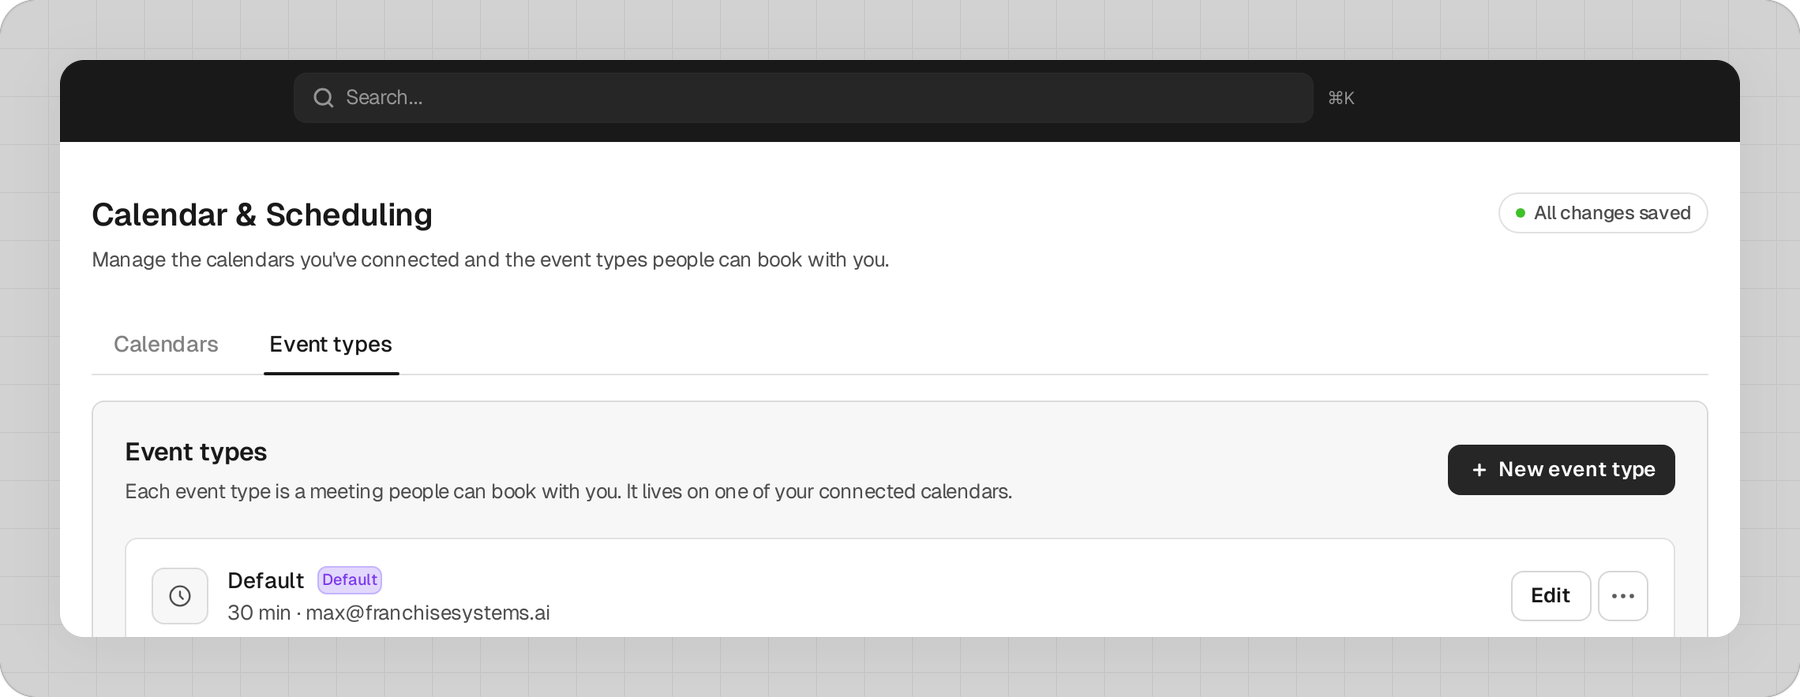
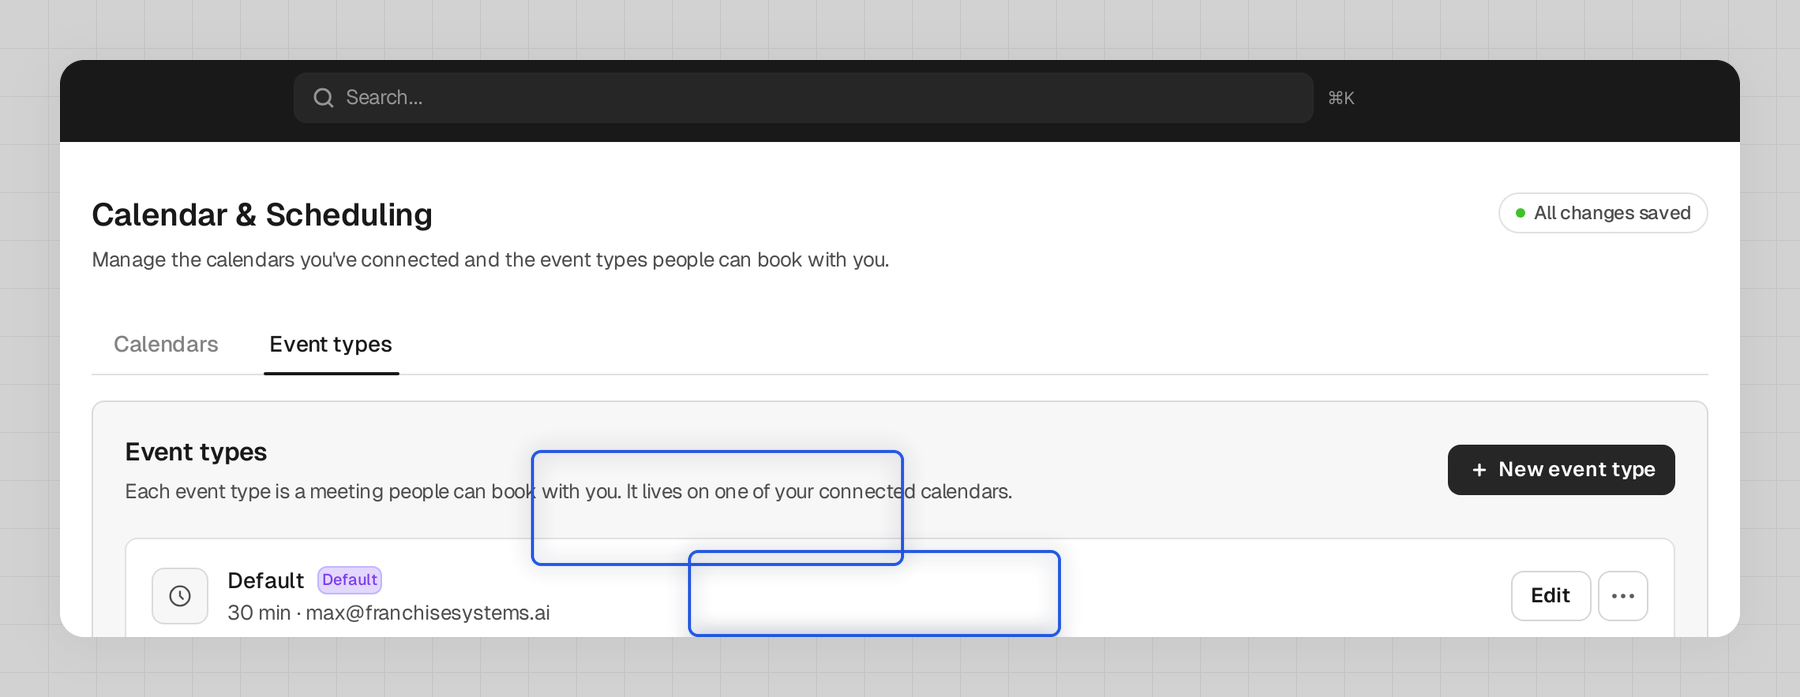
Add series hub orientation shots + import files
Claude-Session: https://claude.ai/code/session_01X3HoDwv2xpLpKpYGK9gbpS

diff --git a/getting-started-with-franchise-systems-ai/getting-started-with-franchise-systems-ai-git.md b/getting-started-with-franchise-systems-ai/getting-started-with-franchise-systems-ai-git.md
@@ -1,0 +1,58 @@
+Franchise Systems Ai (FS Ai) is a franchise management platform that helps you manage sales, marketing, operations, and applicant engagement across one or more franchise brands, all from one place.
+
+The platform has two main parts: the **Brand Dashboard** (where you and your team work) and the **Applicant Portal** (where prospective franchisees interact with your brand).
+
+This article walks you through the key concepts and first steps.
+
+It opens the Getting Started series that carries you through the rest of the platform.
+
+### How the platform is structured
+
+FS Ai is organized into three levels:
+
+1. **Organization**: the top-level account that holds your brands, team members, and billing.
+2. **Brand**: each franchise concept you manage. Brands have their own sales pipelines, marketing audiences, operations data, and portal configurations.
+3. **Agent**: any user who logs into the brand dashboard. Agents belong to an organization and can access one or more brands within it.
+
+### What you can do from the dashboard
+
+The brand dashboard is divided into several areas, accessible from the left sidebar:
+
+- **Home**: your overview, calendar, tasks, and chat.
+- **Marketing**: manage audiences, social posts, lead finding, and automated marketing workflows.
+- **Sales**: work your pipeline, define territories, run workflows, view analytics, and manage sales assets.
+- **Operations**: manage franchisee audiences, locations, vendors, operational workflows, catalog items, manuals, courses, and support tickets.
+- **Projects**: track and manage internal projects.
+- **Brand**: view and edit your brand identity and overview.
+- **Studio**: build and customize your applicant and franchisee portals, forms, link tracking, and more.
+- **Library**: store and organize documents and files.
+
+> **Where is Settings?** Settings is not a sidebar item: open it by clicking your profile picture at the bottom of the sidebar.
+
+Settings is grouped into **Account** (your profile, notifications, and calendar), **Organization** (members, brands, API keys, and billing), and **Brand** (each brand's profile, appearance, scheduling, team, and connections).
+
+### Your first steps
+
+When you sign up, a guided setup walks you through the essentials: setting up your profile, creating your organization, adding your first brand, inviting team members, and confirming your subscription. You also finalize your brand identity (logo, colors, description, and social links) along the way.
+
+The **Getting Started** area stays in your sidebar so you can pick up setup where you left off. Once the essentials are in place, the full dashboard unlocks and you can begin managing your franchise operations.
+
+### Next steps
+
+- Learn about the hierarchy: [What Is an Organization?], [What Is a Brand?], [What Is Multi-Tenancy?]
+- Personalize your account: [Setting Up Your Profile]
+
+### The path
+
+The rest of the Getting Started series is a funnel.
+
+It moves you from an empty account through to franchisees you are actively operating, one stage at a time. Work through the entries in order, or jump straight to the stage you are in right now.
+
+1. [Set Up Your Brand and Team]: invite your team, set notifications and billing, and shape your portal and forms.
+2. [Get Your Leads In]: import and organize your prospects and leads so your pipeline has people in it.
+3. [Reach Out and Nurture]: build emails, sequences, and automations that keep prospects engaged.
+4. [Work Your Pipeline]: assign leads, create custom statuses, and move each one through your sales process.
+5. [Close the Deal]: manage deals, send FDDs, and collect signatures to convert leads into franchisees.
+6. [Operate Your Franchisees]: manage locations and get your assets into the hands of signed franchisees.
+
+**Next up:** [Set Up Your Brand and Team], where you bring your team into the platform and configure your brand.

diff --git a/reach-out-and-nurture/reach-out-and-nurture-git.md b/reach-out-and-nurture/reach-out-and-nurture-git.md
@@ -1,0 +1,38 @@
+This is the stage where you start talking to the contacts you brought in.
+
+You have prospects and leads in the system, and now you turn them into conversations with email, sequences, and tracked links.
+
+Most of this work starts at **Marketing → Workflows**, which opens on your sequences and carries tabs for automations, runs, content, and analytics across the top.
+
+Get your email foundation right first, then layer on the automation that keeps outreach running without you.
+
+![reach-out-and-nurture overview](https://raw.githubusercontent.com/maxmaeser/helpdesk-screenshots/master/reach-out-and-nurture/reach-out-and-nurture-overview.png)
+### What to do
+
+Work through the foundation first, then the automation. Each one links to a full guide.
+
+1. [About Email in FS Ai]: understand the different email contexts (cold, sales, marketing, franchisee, and system) so you set things up correctly from the start.
+
+2. [About Domains and Domain Health]: connect and verify your sending domains so your email lands in inboxes instead of spam.
+
+3. [How to Build an Email]: compose a reusable email template in the visual builder, with subject line and merge fields.
+
+4. [How to Send Email]: send a single template as a newsletter or deploy a multi-email sequence to a segment.
+
+5. [Creating Content and Sequences]: get oriented on the Workflows page, where your email content and automated sequences both live.
+
+6. [About Sequences and Workflows]: automate follow-up so a series of actions runs on its own when something happens.
+
+7. [About Automations and Runs]: build event-driven workflows and watch each one execute, step by step.
+
+8. [About Segments]: group leads who share something in common so the right people get the right message.
+
+9. [Understanding UTM Parameters]: tag your links so you can see which channels are actually bringing people in.
+
+10. [About Link Tracking]: create short, trackable links for print pieces, QR codes, and campaigns.
+
+> **A sequence does not send just because you built it.** It fires only when its trigger event happens for a contact and the sequence is active, never on its own. See [About Sequences and Workflows].
+
+Once your outreach is running, you can turn your attention to the leads who respond.
+
+**Next up:** [Work Your Pipeline], where you assign, status, and work the leads coming out of your nurture.

diff --git a/get-your-leads-in/get-your-leads-in-git.md b/get-your-leads-in/get-your-leads-in-git.md
@@ -1,0 +1,31 @@
+This is the stage where your account stops being empty and starts holding real people.
+
+You have your team and brand set up, and now you bring in the contacts you already have and get them organized so the rest of the funnel has something to work with.
+
+Everything below starts at **Marketing → Audiences**, which opens on the **Prospects** tab: your list of marketing contacts, each with a segment, an email, and a verification status.
+
+Learn the vocabulary first, then get your existing lists in and sorted.
+
+![get-your-leads-in overview](https://raw.githubusercontent.com/maxmaeser/helpdesk-screenshots/master/get-your-leads-in/get-your-leads-in-overview.png)
+
+### What to do
+
+Work through these in order the first time, then come back to whichever piece you need.
+
+1. [General Definitions]: learn what prospect, lead, segment, and audience actually mean before you move contacts around.
+
+2. [How to Import Audiences]: bring your existing contacts in from a CSV, into your prospect list or straight into your sales leads.
+
+3. [How to Filter, Sort, and Search Your Contacts]: narrow a large list down to the subset you want to work with or export.
+
+4. [How to Export Contacts]: pull your prospects or leads back out as a CSV for reporting, backup, or outside tools.
+
+5. [Best Practices: Prospect vs. Lead]: decide which list a contact belongs in so your pipeline and automations stay accurate.
+
+6. [Prospect to Lead Flow]: see how someone moves from a marketing prospect to a working sales lead, automatically or by hand.
+
+> **An import is quiet on purpose.** When you upload a CSV, it never fires welcome sequences, never auto-assigns anyone to a rep, and imported contacts stay in your marketing audience until you act. See [Leads vs. Marketing Audiences].
+
+Once your contacts are in and sorted, you are ready to start reaching them.
+
+**Next up:** [Reach Out and Nurture], where you warm up your audience with email, sequences, and automations.

diff --git a/set-up-your-brand-and-team/set-up-your-brand-and-team-git.md b/set-up-your-brand-and-team/set-up-your-brand-and-team-git.md
@@ -1,0 +1,31 @@
+This is the stage where an empty account becomes a working one.
+
+You have an organization and your first brand.
+
+Now you bring in the people, billing, and brand details that make the platform usable day to day.
+
+Most of this work happens in your settings, which you reach by clicking your profile picture at the bottom of the sidebar.
+
+You are in this stage before any leads exist, so there is no rush.
+
+Get the foundation right and everything that follows has somewhere to land.
+
+![Set up your brand and team overview](https://raw.githubusercontent.com/maxmaeser/helpdesk-screenshots/master/set-up-your-brand-and-team/set-up-your-brand-and-team-overview.png)
+### What to set up
+
+Work through these in roughly this order. Each one links to a full how-to.
+
+1. [How to Invite Users]: add your teammates to the organization by email so they can log in and start working.
+2. [How to Set Up Your Notifications]: choose which activity you get alerted about so you only hear about what matters.
+3. [How to Update Your Payment Method]: confirm the card on file so your subscription stays active.
+4. [How to View Your Invoices]: find your organization's billing history whenever you need it.
+5. [Multi-Brand View]: understand how brand switching works if you manage more than one brand.
+6. [How to Edit Your Portal]: shape the applicant-facing pages and steps your leads see after signing up.
+7. [How to Build a Form]: collect the information you need from applicants along the way.
+8. [How to Connect Your Calendar]: sync Google or Office 365 so events and scheduling live on your Home page.
+
+> **Permissions are set per person.** Access in Franchise Systems Ai (FS Ai) is granted to one individual at a time, never to a whole department, region, or group. See [Understanding Roles and Permissions].
+
+Once your team is in and your brand is configured, you are ready to put people into the system.
+
+**Next up:** [Get Your Leads In], where you import and organize the prospects and leads that fill your pipeline.

diff --git a/work-your-pipeline/work-your-pipeline-git.md b/work-your-pipeline/work-your-pipeline-git.md
@@ -1,0 +1,29 @@
+Your pipeline is where prospects and leads become a real sales process in Franchise Systems Ai (FS Ai).
+
+You are in this stage once people are in the platform and you need to route them to the right rep, track where each one stands, and keep them moving toward a deal.
+
+Everything below lives under **Sales → Pipeline**, on the **Leads** tab.
+
+Each lead carries a status, a segment, a progress count, and an assigned owner.
+
+Work through the list in order the first time, then come back to whichever piece you need.
+
+![Work your pipeline overview](https://raw.githubusercontent.com/maxmaeser/helpdesk-screenshots/master/work-your-pipeline/work-your-pipeline-overview.png)
+
+### What to do
+
+1. [Auto and Manual Lead Assignment]: decide whether new leads route to reps automatically by round-robin or wait for you to assign them by hand.
+
+2. [How to Assign Leads]: assign or reassign a single lead, or a batch of them, to a rep directly from the leads table.
+
+3. [How to Create Custom Lead Statuses]: define your own stages so the pipeline matches how your team actually sells.
+
+4. [How to Work a Lead]: open a lead's detail panel to message them, add tasks, and see their full history in one place.
+
+5. [About Territories]: manage geographic compliance and deal distribution as leads arrive from different regions.
+
+6. [About Sales Analytics]: check how the pipeline is performing and spot where leads are stalling.
+
+> **Your stages, not ours.** Statuses are fully customizable, so the pipeline mirrors the process you already run instead of forcing you into a fixed set of stages. See [How to Create Custom Lead Statuses].
+
+**Next up:** [Close the Deal], where you turn a worked lead into a signed franchisee with deals, FDDs, and e-signatures.

diff --git a/operate-your-franchisees/operate-your-franchisees-git.md b/operate-your-franchisees/operate-your-franchisees-git.md
@@ -1,0 +1,26 @@
+Operate is the stage after the deal is signed, when a prospect becomes a franchisee you actually run in Franchise Systems Ai (FS Ai).
+
+You are in this stage once sites are opening and your franchisees need the location records, files, and documents that keep the day-to-day running.
+
+![Overview of the Operate section](https://raw.githubusercontent.com/maxmaeser/helpdesk-screenshots/master/operate-your-franchisees/operate-your-franchisees-overview.png)
+Everything below lives under the **Operations** section of the sidebar, where you track each location and manage the assets you share out to the field.
+
+Work through these in order the first time, then come back to whichever piece you need.
+
+### What to do
+
+1. [About Locations]: track every site your franchise operates or plans to open, from status and franchisee entity to the details behind each one.
+
+2. [How to Upload and Manage Assets]: add the PDFs, images, videos, and documents your franchisees need, and keep them versioned and organized in one library.
+
+3. [How Assets Reach Your Franchisees]: take the second step that actually shares a published asset with the franchisees who should see it.
+
+> **Uploading is not sharing.** Adding an asset to your library and a franchisee actually seeing it are two separate steps. An asset only reaches the field once you take the explicit sharing step after uploading. See [How Assets Reach Your Franchisees].
+
+This is the last stage in the Getting Started path.
+
+You have gone from an empty account to signed, operating franchisees.
+
+From here, revisit [Getting Started with Franchise Systems Ai] any time you need the map of the whole journey.
+
+Browse the rest of the helpdesk for the deep how-to on any feature you touch along the way.

diff --git a/close-the-deal/close-the-deal-git.md b/close-the-deal/close-the-deal-git.md
@@ -1,0 +1,24 @@
+This is the stage where a worked lead becomes a signed franchisee in Franchise Systems Ai (FS Ai).
+
+You are here once a lead is qualified and ready to move forward. You need to open a deal, disclose the FDD, collect signatures, and convert them into a franchisee.
+
+Everything below lives on the **Deal** tab of a lead's detail panel, which you reach under **Sales → Pipeline** on the **Leads** tab.
+
+Each deal carries a type, a status, its documents and signatures, and a **Convert To Franchisee** button once it is ready.
+
+![close-the-deal overview](https://raw.githubusercontent.com/maxmaeser/helpdesk-screenshots/master/close-the-deal/close-the-deal-overview.png)
+### What to do
+
+Work through these in order the first time, then come back to whichever piece you need.
+
+1. [About Deals]: understand the deal record, its type and status, and the convert action that turns a closed deal into a franchisee.
+
+2. [How to Manage FDDs]: upload your Franchise Disclosure Document, assign it by state, and track its filing status before you disclose.
+
+3. [How to Use E-Signature]: send the FDD and other documents for signing and watch each signature come back, all from the deal.
+
+4. [How to Connect Your Calendar]: connect your calendar so you can schedule the discovery and closing calls with candidates that move a deal to signed.
+
+> **The close happens inside the platform.** You disclose the FDD, send documents for signing, and collect completed signatures from the deal itself, and applicants sign inside their own portal without leaving it. See [How to Use E-Signature].
+
+**Next up:** [Operate Your Franchisees], where a signed deal becomes a franchisee you actually run.